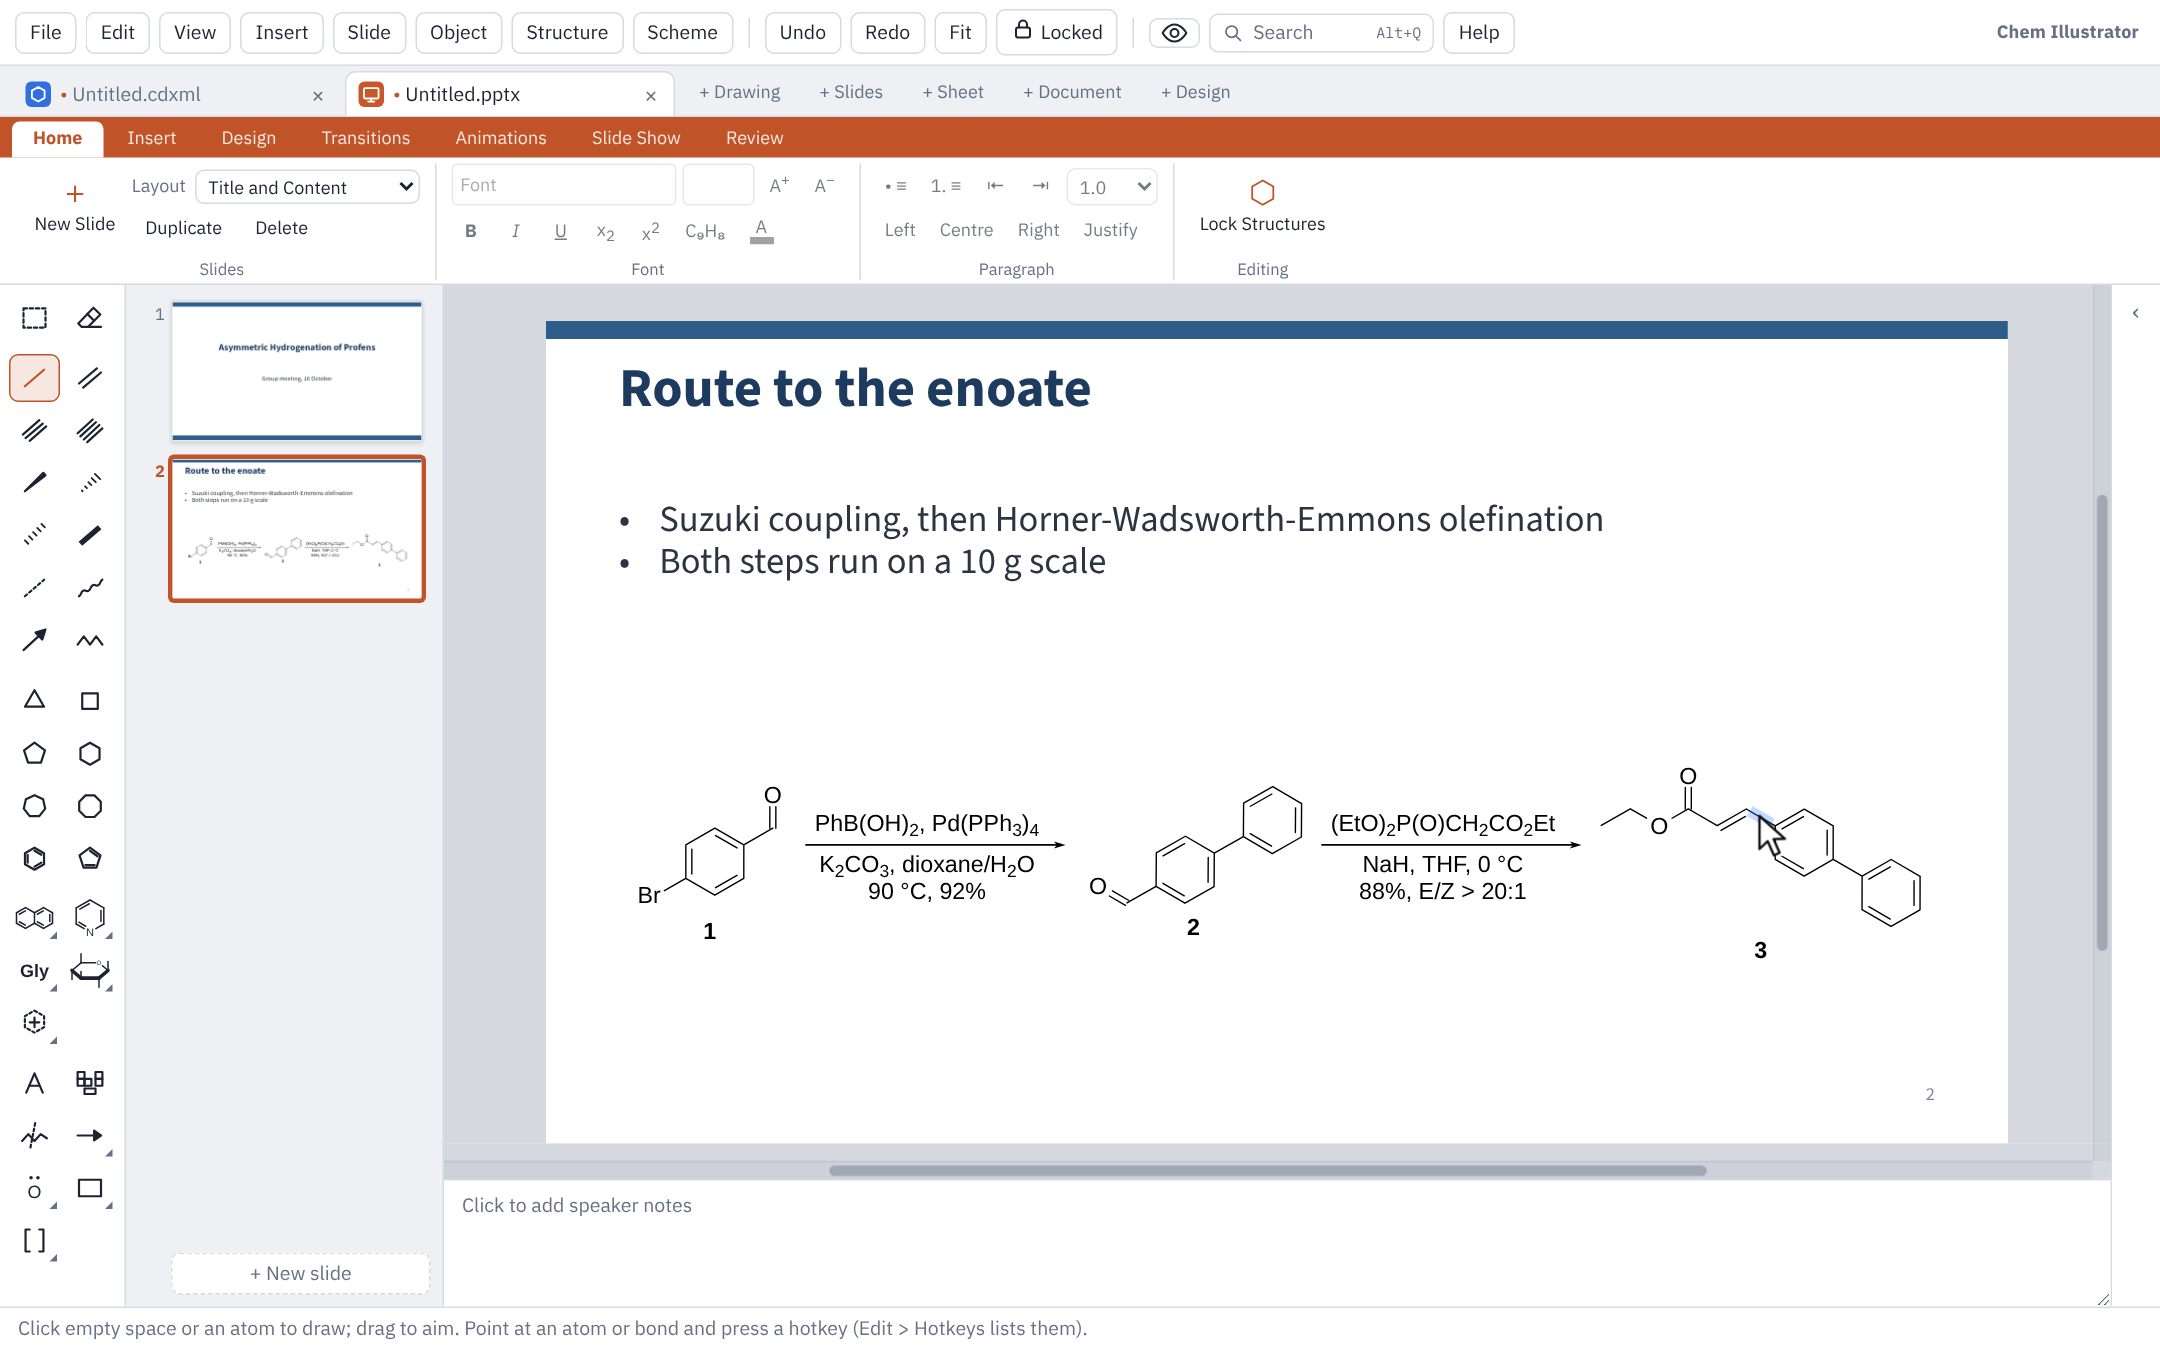
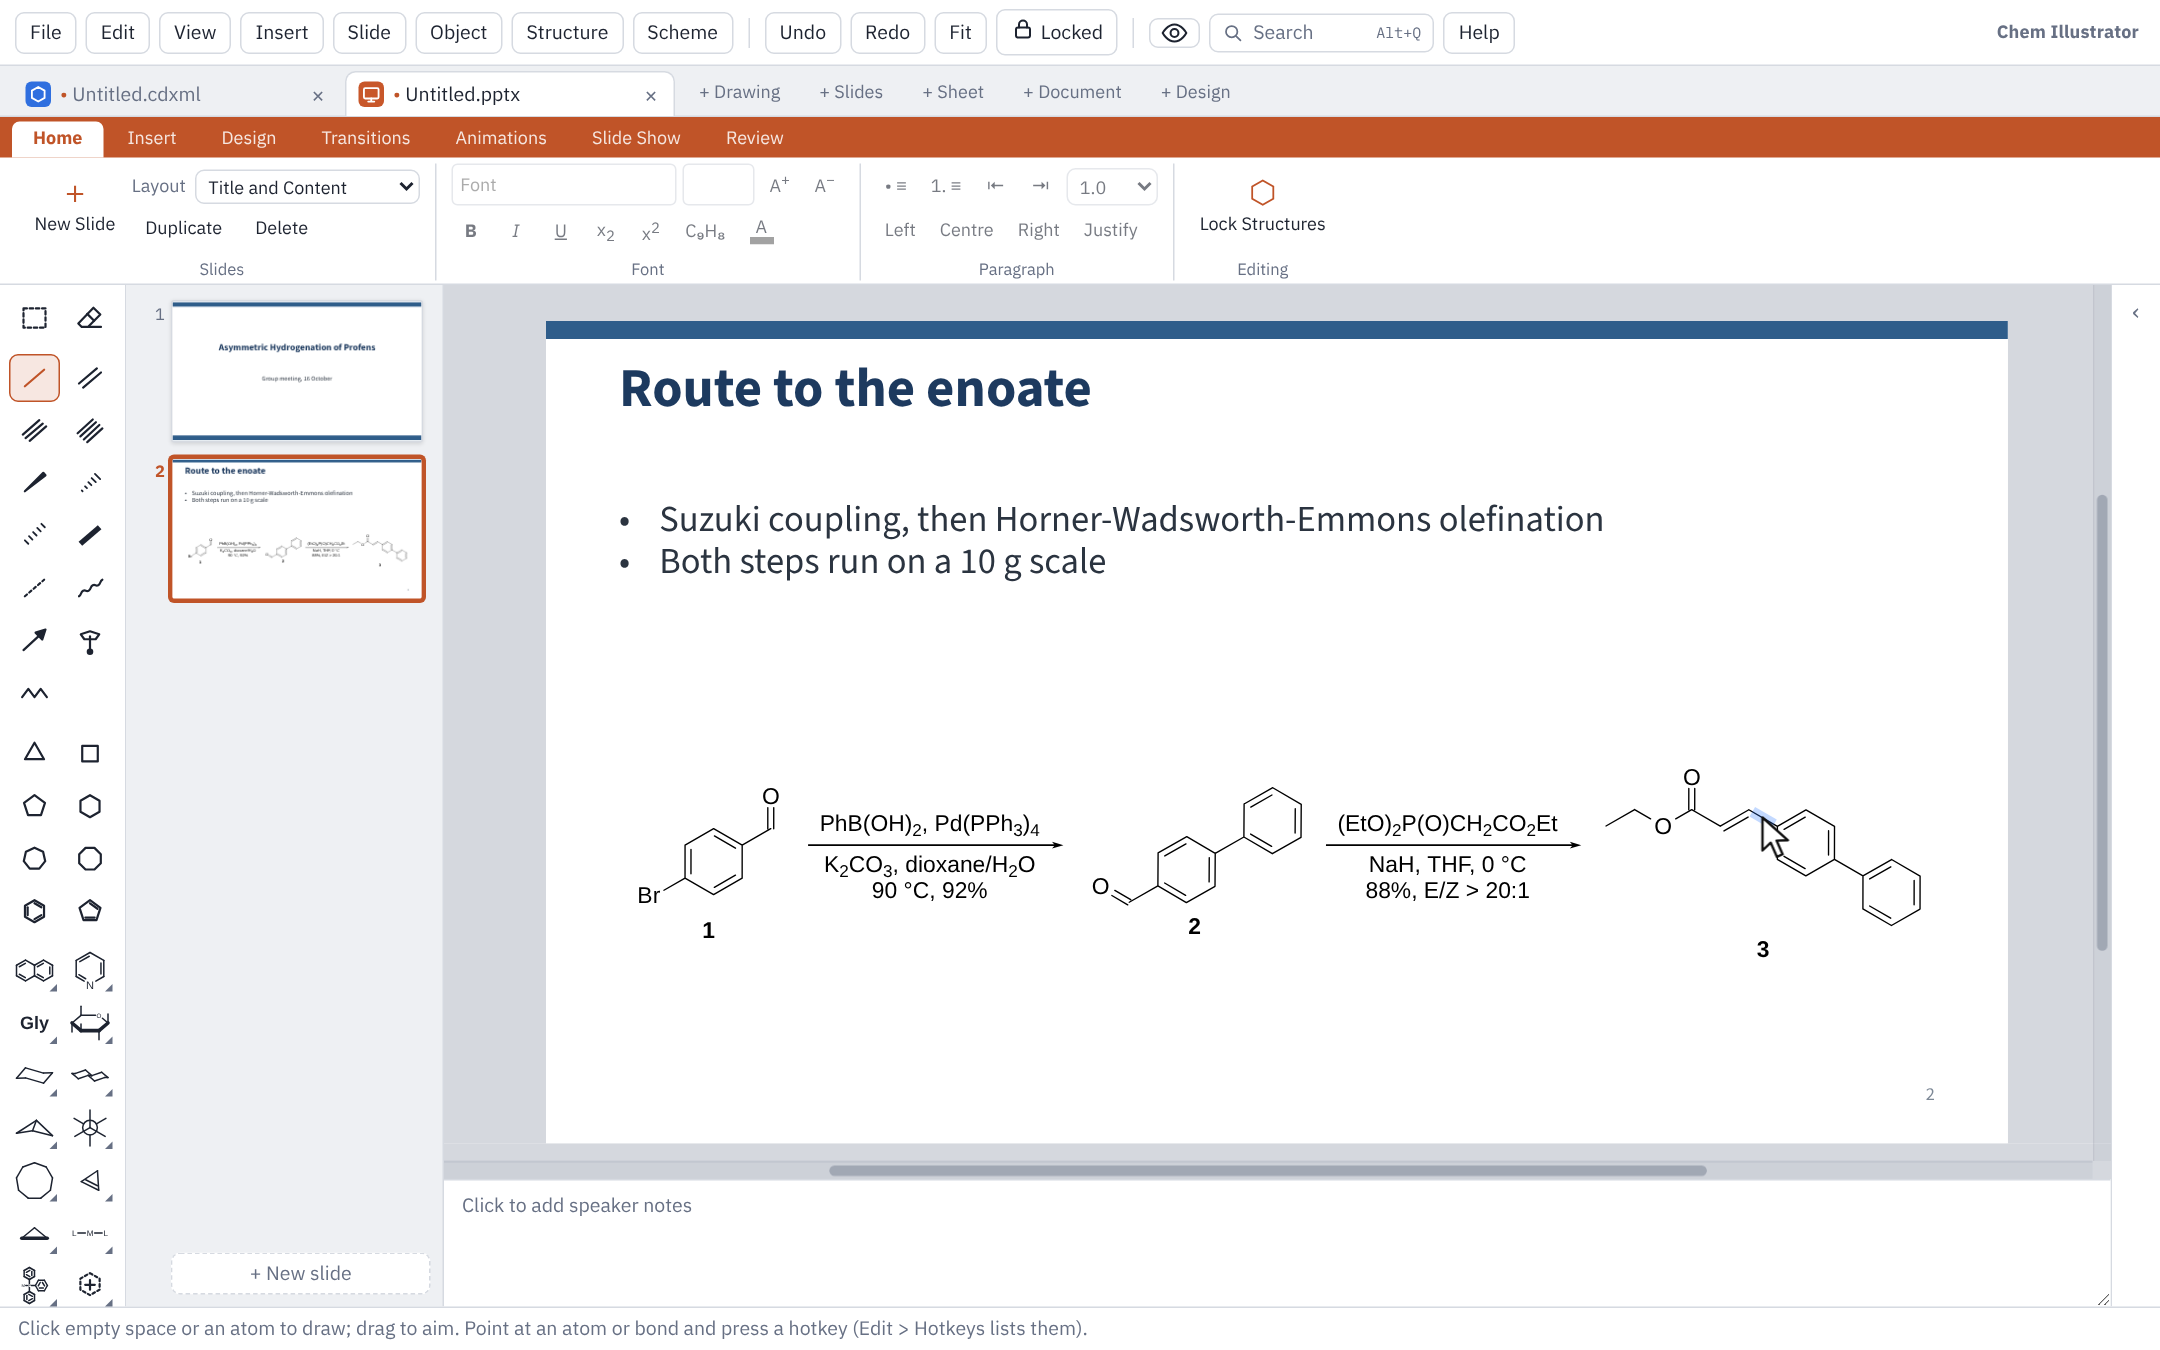
README: metal complex and lone pair animations, see-through ring fills
Adds a "Metals and mechanisms" section with two new GIFs (an arene
chromium tricarbonyl built from the Metal complexes palette, its ring
moved with the hapto bond following; lone pairs aimed by dragging round
each oxygen), retakes the ring-fill picture with a see-through hatch and
drop shadows, and retakes the other screenshots with the current toolbar.

Also fixes formulas for CO typed as a label on a metal: it was read as a
formyl group (CHO) and is now carbon monoxide, as a drawn M-C≡O already was.

Claude-Session: https://claude.ai/code/session_015J12orPpFwxezS8exTcRtt

diff --git a/src/chem/molfile.ts b/src/chem/molfile.ts
@@ -5,7 +5,7 @@
 import { Doc, Atom, isMetalAtom, radicalElectrons } from '../model';
 import { metalCarbonyl } from './hapto';
 import { SYMBOLS, elementNumber, valenceOfBonds } from './elements';
-import { labelDonates, labelGraph, MiniGraph } from './labels';
+import { CARBONYL_LIGAND, isCarbonylLabel, labelDonates, labelGraph, MiniGraph } from './labels';
 import { stereoAnchor, stereoSense } from './stereo';
 
 export interface MolExport {
@@ -61,6 +61,7 @@ export function toMolfile(doc: Doc, atomIds: Iterable<number>, name = '', opts: 
   // second bond of a bridging Cl) go to the engine as dative bonds, which take no hydrogen off
   // the atom giving them; the rest (a methyl, a chloride) are ordinary bonds.
   const dative = new Set<number>();
+  const toMetal = (id: number) => (doc.adj.get(id) ?? []).some((bid) => { const b = doc.bonds.get(bid)!; return isMetalAtom(doc.atoms.get(b.a1 === id ? b.a2 : b.a1)); });
   const metalBonds = (id: number) => (doc.adj.get(id) ?? []).map((bid) => doc.bonds.get(bid)!)
     .filter((b) => b.display !== 'dative' && isMetalAtom(doc.atoms.get(b.a1 === id ? b.a2 : b.a1)));
   // a carbonyl ligand, drawn M–C≡O, is M←C⁻≡O⁺ to the engine
@@ -147,7 +148,8 @@ export function toMolfile(doc: Doc, atomIds: Iterable<number>, name = '', opts: 
     const x = (a.x - first.x) / L, y = -(a.y - first.y) / L;
     let g: MiniGraph | null = null;
     if (a.label) {
-      g = labelGraph(a.label, valenceOfBonds((doc.adj.get(id) ?? []).map((bid) => doc.bonds.get(bid)!).filter((b) => b.display !== 'dative' && !dative.has(b.id)).map((b) => b.order)));
+      const own = valenceOfBonds((doc.adj.get(id) ?? []).map((bid) => doc.bonds.get(bid)!).filter((b) => b.display !== 'dative' && !dative.has(b.id)).map((b) => b.order));
+      g = !own && isCarbonylLabel(a.label) && toMetal(id) ? CARBONYL_LIGAND : labelGraph(a.label, own);
       if (!g) unknown.push(a.label);
     }
     if (!g || g.atoms.length === 0) {

diff --git a/src/chem/labels.ts b/src/chem/labels.ts
@@ -54,7 +54,7 @@ export const NICKNAMES: Record<string, string> = {
  * Ligands that give the metal a lone pair or a π-bond (L-type): their bond to a metal takes no
  * hydrogen off them, so PPh₃, COD and THF keep every hydrogen they have as free molecules.
  */
-const L_LIGANDS = new Set(['THF', 'DMF', 'DMSO', 'Et2O', 'DME', 'MeCN', 'PhCN', 'PPh3', 'PCy3', 'PMe3', 'PEt3', 'PtBu3', 'PnBu3',
+const L_LIGANDS = new Set(['CO', 'OC', 'THF', 'DMF', 'DMSO', 'Et2O', 'DME', 'MeCN', 'PhCN', 'PPh3', 'PCy3', 'PMe3', 'PEt3', 'PtBu3', 'PnBu3',
   'dppm', 'dppe', 'dppp', 'dppb', 'BINAP', 'Xantphos', 'XPhos', 'SPhos', 'RuPhos', 'JohnPhos', 'DavePhos', 'py', 'bpy', 'bipy',
   'phen', 'tmeda', 'TMEDA', 'en', 'IMes', 'SIMes', 'IPr', 'SIPr', 'COD', 'NBD', 'dba', 'p-cymene', 'C6Me6']);
 
@@ -942,6 +942,10 @@ function buildLabel(label: string, ext: number, charge = 0): { g: MiniGraph | nu
 export function labelGraph(label: string, ext = 1): MiniGraph | null {
   return buildLabel(label, ext).g;
 }
+
+/** A CO label given to a metal is carbon monoxide, M←C⁻≡O⁺ to the chemistry engine, not a formyl group. */
+export const CARBONYL_LIGAND: MiniGraph = parseSmiles('[C-]#[O+]');
+export const isCarbonylLabel = (label: string) => label === 'CO' || label === 'OC';
 
 /**
  * Atoms of a label with more bonds than their element allows, counting the hydrogens written in

diff --git a/tests/hapto.test.ts b/tests/hapto.test.ts
@@ -249,6 +249,22 @@ describe('formulas of metal complexes (the chemistry engine)', () => {
     expect(hCount(doc)).toBe(15 + 8 + 3 + 3 + 12);
   });
 
+  it('CO labels on a metal are carbon monoxide, not formyl: (benzene)Cr(CO)3', () => {
+    const doc = new Doc();
+    const L = doc.style.bondLength;
+    doc.edit('a', () => {
+      const ring: number[] = [];
+      for (let i = 0; i < 6; i++) ring.push(doc.addAtom(Math.cos(i * Math.PI / 3) * L, Math.sin(i * Math.PI / 3) * L - 30).id);
+      for (let i = 0; i < 6; i++) doc.addBond(ring[i], ring[(i + 1) % 6], i % 2 ? 1 : 2);
+      const cr = doc.addAtom(0, 0, 24).id;
+      bondHapto(doc, cr, ring);
+      for (const [i, label] of ['CO', 'OC', 'CO'].entries()) doc.addBond(cr, doc.addAtom(14 * Math.cos(i + 1), 14 * Math.sin(i + 1), 6, { label }).id, 1, i === 2 ? 'dative' : 'solid');
+    });
+    // six ring hydrogens and none on the carbonyls
+    expect(hCount(doc)).toBe(6);
+    expect(formula(doc)).toContain('[O+]');
+  });
+
   it('a drawn phosphine and a bridging chloride keep theirs too', () => {
     const doc = new Doc();
     doc.edit('a', () => {

diff --git a/README.md b/README.md
@@ -31,9 +31,16 @@ Draw an arrow between two structures and a **+** box appears above and below it.
 
 ## Colour that means something
 
-Fill rings with a colour, a gradient, hatching or dots, and pick out parts of a structure with round, diamond or square highlights, soft-edged or with a shadow. Fills and highlights move with their atoms.
+Fill rings with a colour, a gradient, hatching or dots (patterns can be see-through over a colour), add a drop shadow, and pick out parts of a structure with smooth round, diamond or square highlights, soft-edged or with a shadow. Fills and highlights move with their atoms and come along when you copy a structure.
 
 ![Estrone with each ring filled differently (gradient, hatching, dots, solid), and a kinase inhibitor with its parts highlighted in round, diamond and square shapes](docs/images/ring-fills.png)
+
+## Metals and mechanisms
+
+| Metal complexes, from templates | Lone pairs where you want them |
+|---|---|
+| ![Placing an arene chromium tricarbonyl from the Metal complexes palette, typing Cr and CO onto it, and moving the benzene ring: the η⁶ bond follows the ring's middle, and the side panel shows C9H6CrO3](docs/images/metal-complex.gif) | ![Adding lone pairs to acetate's oxygens by pressing on each oxygen and sweeping round it to aim the pair](docs/images/lone-pairs.gif) |
+| Coordination geometries, metallocenes, piano stools and 26 ligands are a click away. Hapto (η) bonds go to the middle of a ring or π-bond and follow it, and formulas count metal carbonyls, Cp and phosphines the way a chemist would. | Press on an atom with the lone pair, radical or circled charge tool and drag round it to put the symbol exactly where it should go. Charges keep clear of the bonds beside them. |
 
 ## It knows the chemistry
 
